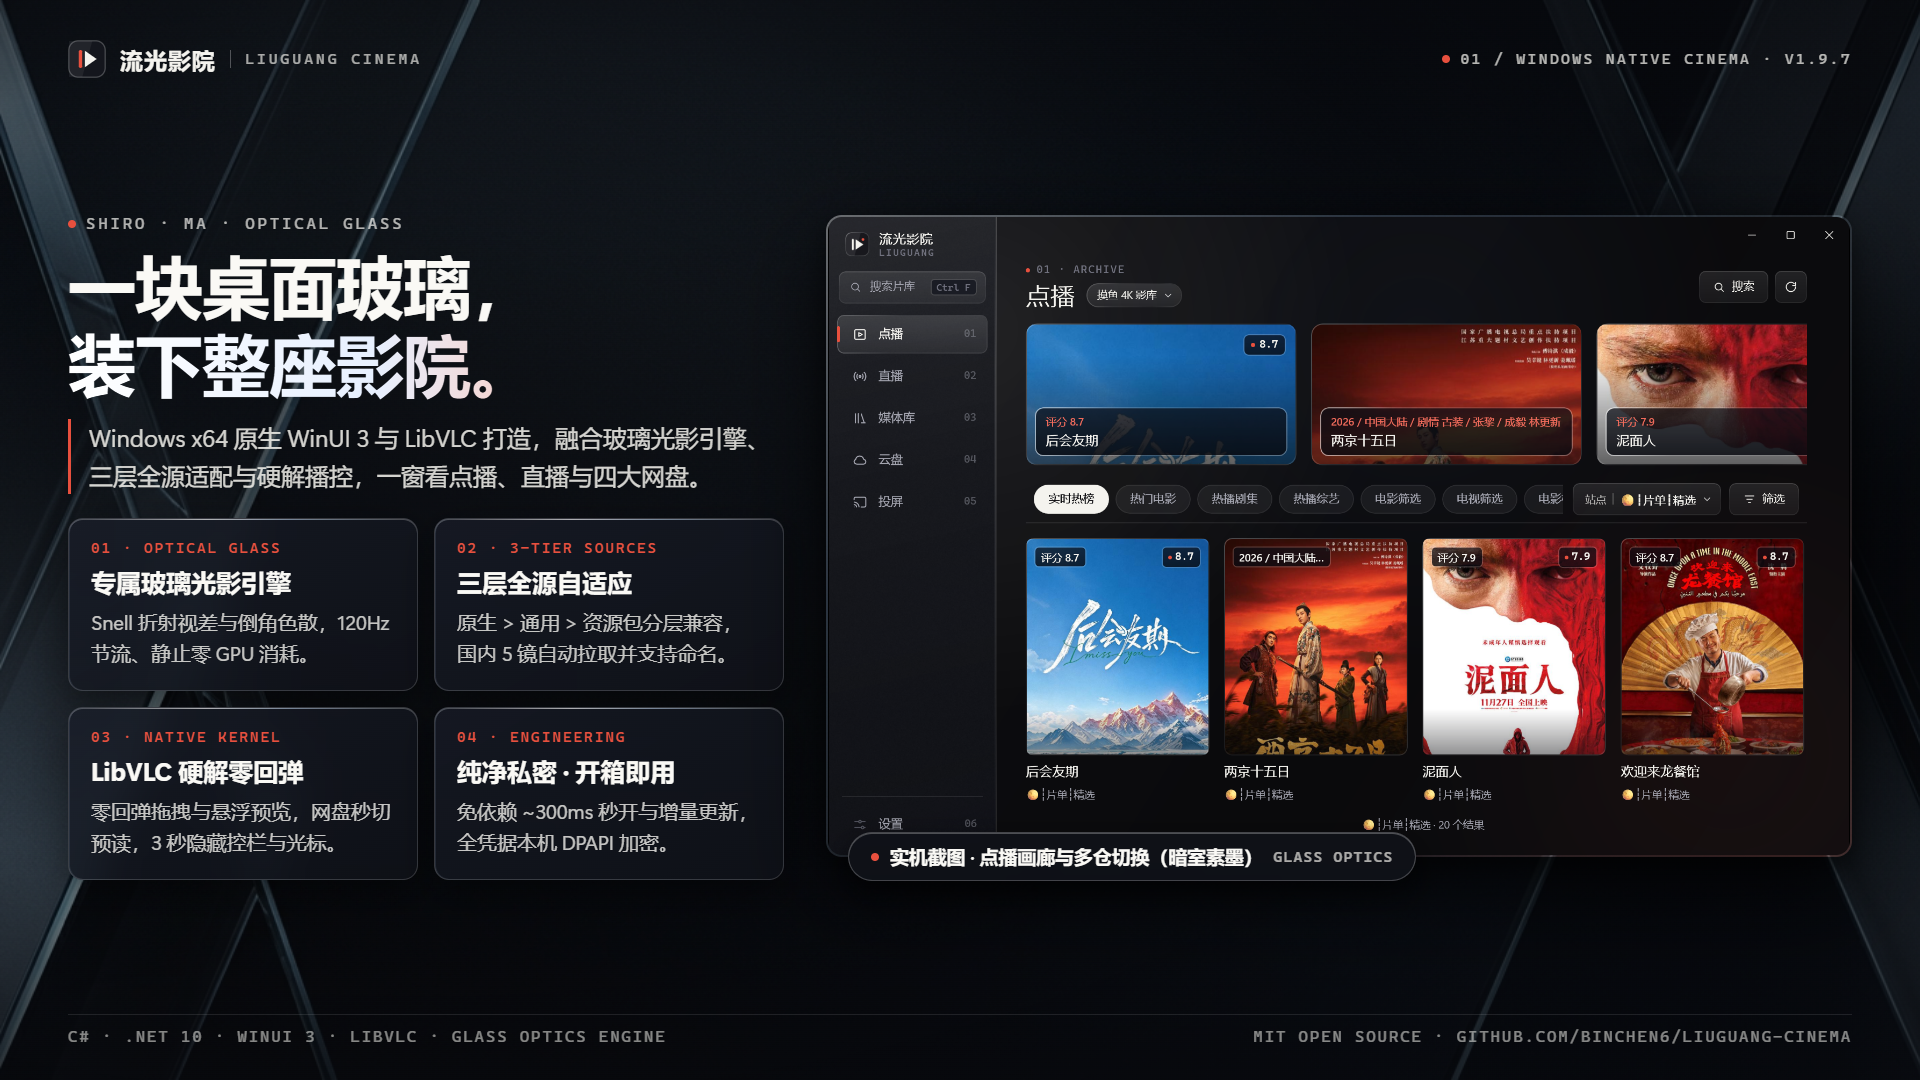
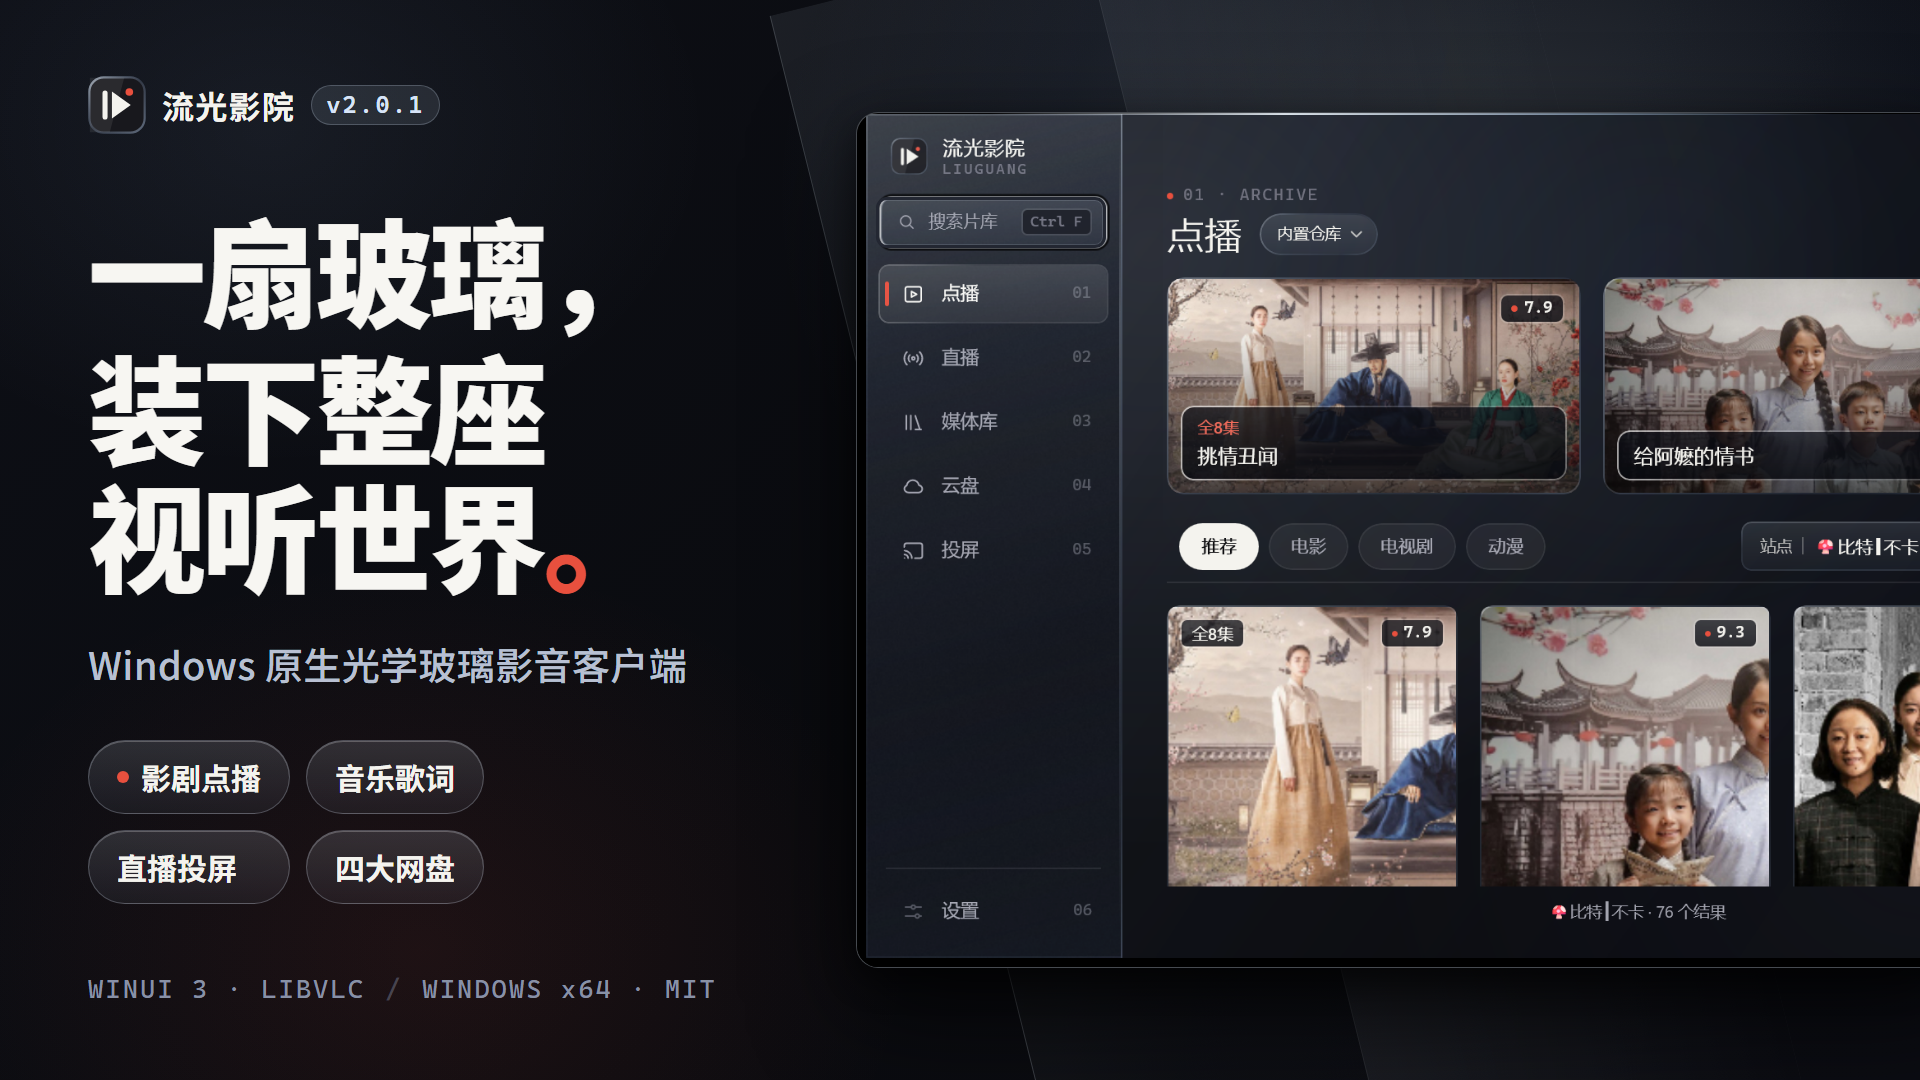
Update showcase documentation and promo visuals

diff --git a/docs/showcase.md b/docs/showcase.md
@@ -1,53 +1,85 @@
 # 流光影院功能介绍
 
-**流光影院（Liuguang Cinema）** 是一款基于 **C#、WinUI 3 与 LibVLC** 打造的 Windows x64 原生桌面影音客户端。聚焦**光学液态玻璃美学、三层全源自适应生态、原生硬解丝滑播控、多网盘与自适应媒体库，以及纯净私密的本地优先工程**，在一扇窗口内打通点播、直播、个人网盘、本地片库与跨屏接收。
+**流光影院（Liuguang Cinema）** 是一款基于 **C#、WinUI 3 与 LibVLC** 打造的 Windows x64 原生桌面影音客户端。聚焦**双主题光学玻璃美学、原生硬解与弹幕字幕播控、全新音乐播放器、三层全源与独立适配包体系、四大网盘直连、自适应媒体库、直播投屏与纯净本地隐私工程**，在一扇窗口内整合完整视听体验。
 
 ![流光影院主界面](./assets/promo/01-hero-cinema.png)
 
 ---
 
-## 一、光学玻璃美学与专属光影引擎
+## 一、双主题光学玻璃美学
 
-界面遵循低干扰留白与清晰层次，让海报与影片成为绝对主角：
+界面遵循「白与余白」克制层次，让海报、影片与音乐成为绝对主角：
 
-- **暗室素墨与低眩光暖白双主题**：深色主题采用 `#0B0B0D` 低反光暗底；浅色主题采用 `#ECE9E1` 暖灰宣纸底色与柔墨字色，缓解长时间浏览眩光；同步提供完整 Windows 高对比度语义映射。
-- **专属 GPU 玻璃光影引擎（`GlassOpticsEngine`）**：在 WinUI 3 DWM Compositor 线程构建四层实时光学交互——指针滑过时的**体积透射高光与 Snell 折射视差**、贴近边缘的 **Schlick Fresnel 倒角色散反光**、沿顶缘游走的**全内反射高光丝**以及点击触发的**焦散折射波纹**；120Hz 节流且静止时零常驻 GPU 消耗，每屏宏观 `AcrylicBrush` 严格控制在 `≤ 4` 块。
-- **可打断物理弹簧动效**：页面切换、侧栏与分类滑轨、海报悬停、点播吸顶筛选坞收起均由 Composition 物理弹簧驱动，连点或反向滑动随时衔接，关闭系统动效后即刻静态落位。
+- **白昼宣纸 × 暗室流光双主题**：浅色主题采用 `#ECE9E1` 温润护眼宣纸底布叠加日光柔雾磨砂与酸蚀微晶纹理；深色主题采用 `#0B0B0D` 暗室素墨搭配高通透月光玻璃与冷银菲涅尔外框；同步支持 Windows 高对比度模式。
+- **专属 GPU 玻璃光影引擎（`GlassOpticsEngine`）**：在 DWM Compositor 线程实现体积透射、Snell 折射视差、Schlick Fresnel 倒角色散、顶部焦散游走光与点击波纹；`120Hz` 指针节流、静止零 GPU 开销，每屏宏观 `AcrylicBrush ≤ 4` 块。
 
-![深浅双主题与光学玻璃光影引擎](./assets/promo/02-shiro-ma-glass.png)
-
----
-
-## 二、原生硬件解码与丝滑播控
-
-播放内核基于 **LibVLC**，默认开启 `:avcodec-hw=any` 硬件解码（不支持时自动平滑降级），配合高优先级合并控制队列带来跟手响应：
-
-- **零回弹精准拖拽**：确定性状态机 `PlaybackSeekCoordinator` 结合 100 档微步进度条与 GPU 悬浮时间预览胶囊，消除缓冲期滑块回弹与暂停抖动；网盘与 HLS 远距拖拽时实时取消过期预读，显著缩短跳转起播等待。
-- **纯粹沉浸观影**：播放中无操作 3 秒且鼠标未悬停控件时，光学玻璃控制坞平滑收起并隐藏原生透明光标（零高回报率鼠标移动卡顿）；默认开启内核级防息屏/防休眠，支持倍速、画质、画面比例、多音轨、逐集片头片尾跳过与画中画。
-- **字幕、AI 字幕与弹幕功能**：支持外挂字幕 ±60 秒时间偏移与 `0.80x–1.25x` 调速；填入自有阿里云百炼 API Key 后可一键提取音轨生成时间轴字幕、双语翻译或开启 WASAPI 进程级实时字幕；同时内置弹弹play 开放弹幕库（含国内直连签名中继与 CDN 直连省流）与 B 站弹幕供按需开启。
-
-![原生硬解播放器与悬浮光学玻璃控制坞](./assets/promo/03-cinema-playback.png)
+![双主题光学玻璃引擎](./assets/promo/02-dual-theme-optics.png)
 
 ---
 
-## 三、三层全源自适应、网盘与自适应媒体库
+## 二、原生硬件解码、自由弹幕与双语字幕
 
-- **三层全源适配 × 仓库资源包**：按 **原生 C# > 通用协议/自动 HTML/`drpy2 js:`+`CryptoJS`/Python/Java DEX 动态转译 > 仓库资源包** 分级兼容各类 TVBox 单仓、多仓与加密配置。导入仓库时可**自定义名称**并随时**重命名**，点播顶栏一键按仓切换且严格隔离；导入适配源（如 `www.y456y.com`）时自动通过国内 5 镜加速从 [Liuguang-RepoPacks](https://github.com/binchen6/Liuguang-RepoPacks) 下载对应资源包并完成 SHA-256 校验热启用，也可在「设置 → 片源」手动管理。
-- **自适应宽屏媒体库**：继续观看采用 1–6 列全宽自适应信息流，随窗口宽度自动重排铺满视口、消除边缘留白；统一管理收藏、单集与 HLS 离线下载、本地目录递归监听、侧车字幕挂载及 Windows 右键「打开方式」直达播放。
-- **四大个人网盘直连**：打通阿里云盘（资源库/备份盘 + 纯 C# 设备签名）、夸克、UC（设备令牌与原画/转码智能回退）与百度网盘，经本地 `127.0.0.1` 回环代理与分块预读免转存播放。
-- **多源直播与扫码投屏**：支持 M3U/TXT 直播源分组聚合、EPG 节目单与多线路切换，并支持局域网 DLNA/UPnP 与手机扫码投屏接收（电脑端确认即播）。
+播放内核基于 **LibVLC**，默认开启 `:avcodec-hw=any` 硬件解码（不支持时平滑降级软解）：
 
-![三层片源资源包、自适应媒体库、四大网盘与直播投屏](./assets/promo/04-all-in-one-ecosystem.png)
+- **零回弹精准拖拽与静默沉浸**：确定性状态机 `PlaybackSeekCoordinator` 消除进度条回弹与暂停抖动，无操作 3 秒自动隐匿控制坞与原生透明光标，播放期默认内核级防息屏/防休眠。
+- **高刷弹幕与智能字幕**：内置弹弹play 开放弹幕库与 B 站弹幕，**支持自由自定义弹幕显示区域（1/4、半屏、3/4、全屏）、字号、透明度、速度、密度以及屏蔽词/正则过滤**；支持外挂字幕 ±60 秒偏移与调速，接入自有阿里云百炼 API Key 后支持 AI 自动生成、双语翻译与 WASAPI 实时字幕。
+
+![原生硬解、自由弹幕、双语字幕与光学玻璃控制坞](./assets/promo/03-cinema-playback.png)
 
 ---
 
-## 四、纯净原生工程与本地隐私边界
+## 三、全新音乐播放器
 
-- **免依赖开箱即用**：无需管理员权限，无需预装 .NET、Java 或 VC++ 运行库；发布包内微软签名 PE 占比达 **98.4%**，安装器关闭固实压缩且不嵌套外部 `.exe`，实测冷热启约 **220–450 ms**，同步提供支持纯净原地更新的免安装便携 ZIP。
-- **国内加速双向增量更新**：复用共享 5 条国内 GitHub 镜像自动测速与多路 Range 分片下载，文件级双向差异补丁让日常升级通常控制在 10 MB 以内，全程强制核对官方 SHA-256。
-- **本地加密与零遥测**：不向作者上报观影记录或账号信息；网盘 Cookie/Token、百炼 API Key 等敏感凭据全部经 Windows **DPAPI** 本机加密落库，跨域重定向严格剥离敏感请求头，日志自动脱敏。
+本地音频文件或站点独立音轨会自动切入专属音乐舞台：
 
-![纯净原生工程、自定义片源与安全增量更新](./assets/promo/05-native-engineering.png)
+- **五层日光折射光场与节拍联动**：在支持进程音频回环的 Windows 上，背景光场与玻璃漫反射随低频节拍实时呼吸；严格遵循系统无动画与高对比度无障碍设置。
+- **逐句歌词与封面匹配**：左侧光学玻璃专辑封面，右侧大号逐句高亮歌词（点击有时间戳的歌词即刻跳转）；自动读取内嵌/同名封面与歌词，并内置按曲名与歌手在线匹配及手动导入入口。
+
+![流光影院全新音乐播放器](./assets/promo/04-music-player.png)
+
+---
+
+## 四、三层全源与独立适配包体系
+
+按 **原生 C# > 通用全协议 > 仓库专属适配包** 分级兼容各类 TVBox 单仓、多仓与加密配置：
+
+- **三层无缝协同**：内置 22+ 原生 C# 适配器与通用协议/自动 HTML/Jint JS/Python/Java DEX 引擎，支持导入自定义仓库名、随时重命名与按仓隔离。
+- **独立开源适配包仓库（`Liuguang-RepoPacks`）**：针对特定仓库差异提供轻量化声明式 ZIP 资源包，导入目标仓库时自动通过国内 5 镜加速匹配下载，并支持在「设置 → 片源 → 仓库资源包」手动刷新、卸载或离线导入 ZIP，全程强制校验官方 SHA-256。
+
+![三层全源与独立适配包体系](./assets/promo/05-adapter-packs.png)
+
+---
+
+## 五、四大个人网盘直连
+
+打通**阿里云盘**（资源库/备份盘 + 纯 C# 设备签名）、**夸克网盘**、**UC 网盘**（设备令牌与原画/转码智能回退）与**百度网盘**，通过本地 `127.0.0.1` 回环代理与分块缓存免转存直连播放，远距拖拽实时取消旧预读；全部凭据经 Windows DPAPI 本机加密存储。
+
+![四大个人网盘免转存直连](./assets/promo/06-cloud-drives.png)
+
+---
+
+## 六、自适应宽屏媒体库
+
+媒体库「继续观看」采用 **1–6 列全宽自适应宽屏信息流**，随窗口宽度自动铺满视口；「本地媒体」支持按**视频与音乐**分类筛选、目录递归监听、同名侧车字幕/弹幕/封面歌词自动挂载，并支持 Windows 右键「打开方式」直达播放与单集/HLS 离线下载。
+
+![自适应宽屏媒体库](./assets/promo/07-adaptive-library.png)
+
+---
+
+## 七、多源直播与扫码投屏
+
+支持 M3U/TXT 直播源分组聚合、EPG 节目单与多线路切换；内置局域网 DLNA/UPnP 与手机浏览器扫码投屏接收，无需在手机端额外安装应用，电脑端确认即刻大屏播放。
+
+![多源直播与手机扫码投屏](./assets/promo/08-live-and-cast.png)
+
+---
+
+## 八、纯净原生工程与本地隐私边界
+
+- **开箱即用**：免管理员权限、免预装 .NET / Java / VC++ 运行库，微软签名 PE 占比 **98.4%**，安装器冷热启约 **300 ms**，同步提供支持原地自动更新的免安装便携 ZIP。
+- **国内加速与本地优先**：共享 5 条国内 GitHub 镜像实现文件级双向差异增量更新并强制校验官方 SHA-256；全凭据 Windows DPAPI 本机加密、日志自动脱敏、零遥测上报。
+
+![纯净原生工程与隐私边界](./assets/promo/09-native-engineering.png)
 
 ---
 
